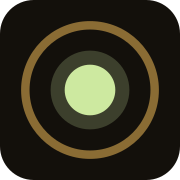
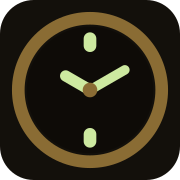
Minta-posztok törlése, óra a faviconba
A három minta-cikk (HU+EN) kikerült — az első valódi írással megyünk
élesbe. A rovatoldalak és a főoldal üresen is rendben állnak; a
"legújabb elöl" felirat üres listánál elrejtve, a főoldal pedig saját
üzenetet kap ("Az első írás hamarosan"), mert ott nem rovatról van szó.

A favicon mostantól valódi számlap: sárgaréz tok, sötét számlap,
világító indexek és mutatók 10:10-ben. Csak 12-es és 6-os index —
16 px-en a 3-as és 9-es összeolvadt a majdnem vízszintes mutatókkal.
Az apple-touch-icon ebből generálva.

diff --git a/src/i18n/ui.ts b/src/i18n/ui.ts
@@ -124,6 +124,7 @@ export const UI = {
     backToColumn: 'Vissza a rovathoz',
     sources: 'Források',
     noPostsYet: 'Ebben a rovatban még nincs írás. Hamarosan.',
+    noPostsYetHome: 'Az első írás hamarosan.',
     readOn: 'Tovább',
   },
 
@@ -179,6 +180,7 @@ export const UI = {
     backToColumn: 'Back to the column',
     sources: 'Sources',
     noPostsYet: 'No pieces in this column yet. Soon.',
+    noPostsYetHome: 'The first piece is coming soon.',
     readOn: 'Read on',
   },
 } as const;

diff --git a/CLAUDE.md b/CLAUDE.md
@@ -60,6 +60,11 @@ párjára* visz — cikknél a `translationKey` alapján, ha nincs pár, a mási
 
 Az olvasási időt a szövegből számoljuk (kb. 200 szó/perc); a `minutes` mezővel felülírható.
 
+**Poszt törlésekor:** az Astro tartalom-gyorsítótára a `node_modules/.astro/data-store.json`-ban
+él, és a törlést nem mindig veszi észre — a törölt cikk kísértetként tovább épül. Ha ilyet
+látsz, `rm -rf node_modules/.astro dist` és újra build. A Cloudflare tiszta klónból épít,
+tehát ott ez nem fordulhat elő.
+
 ## Szerkesztői szabályok (a briefből)
 
 - Nincs megjelenésnapi hajsza, nincs hype. A tárgy > a hírek.
